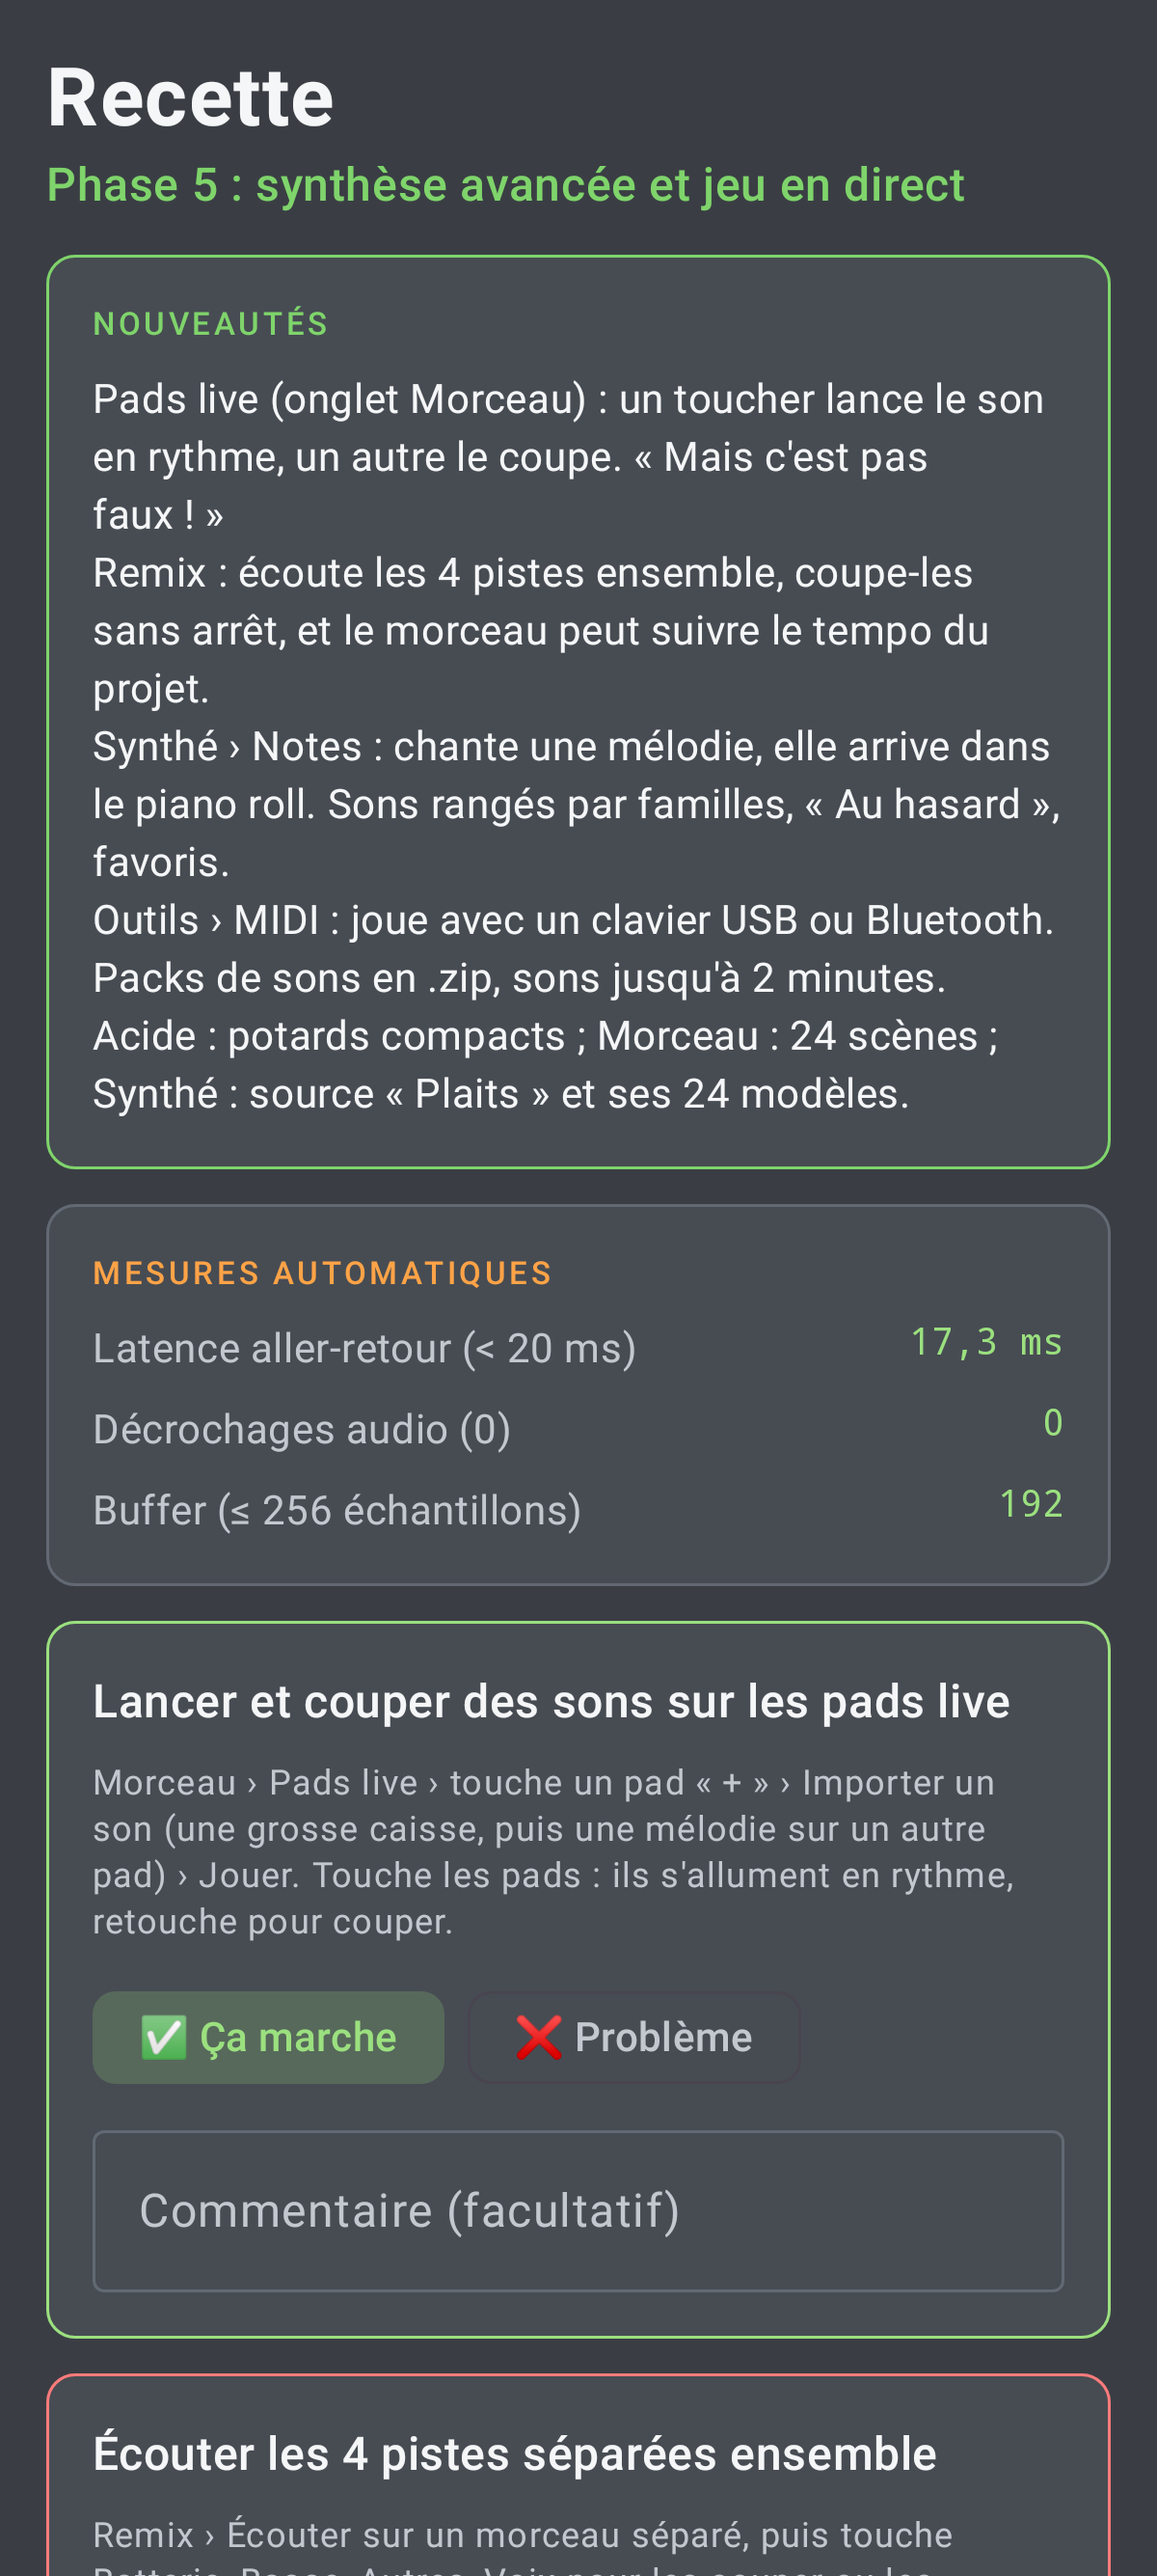
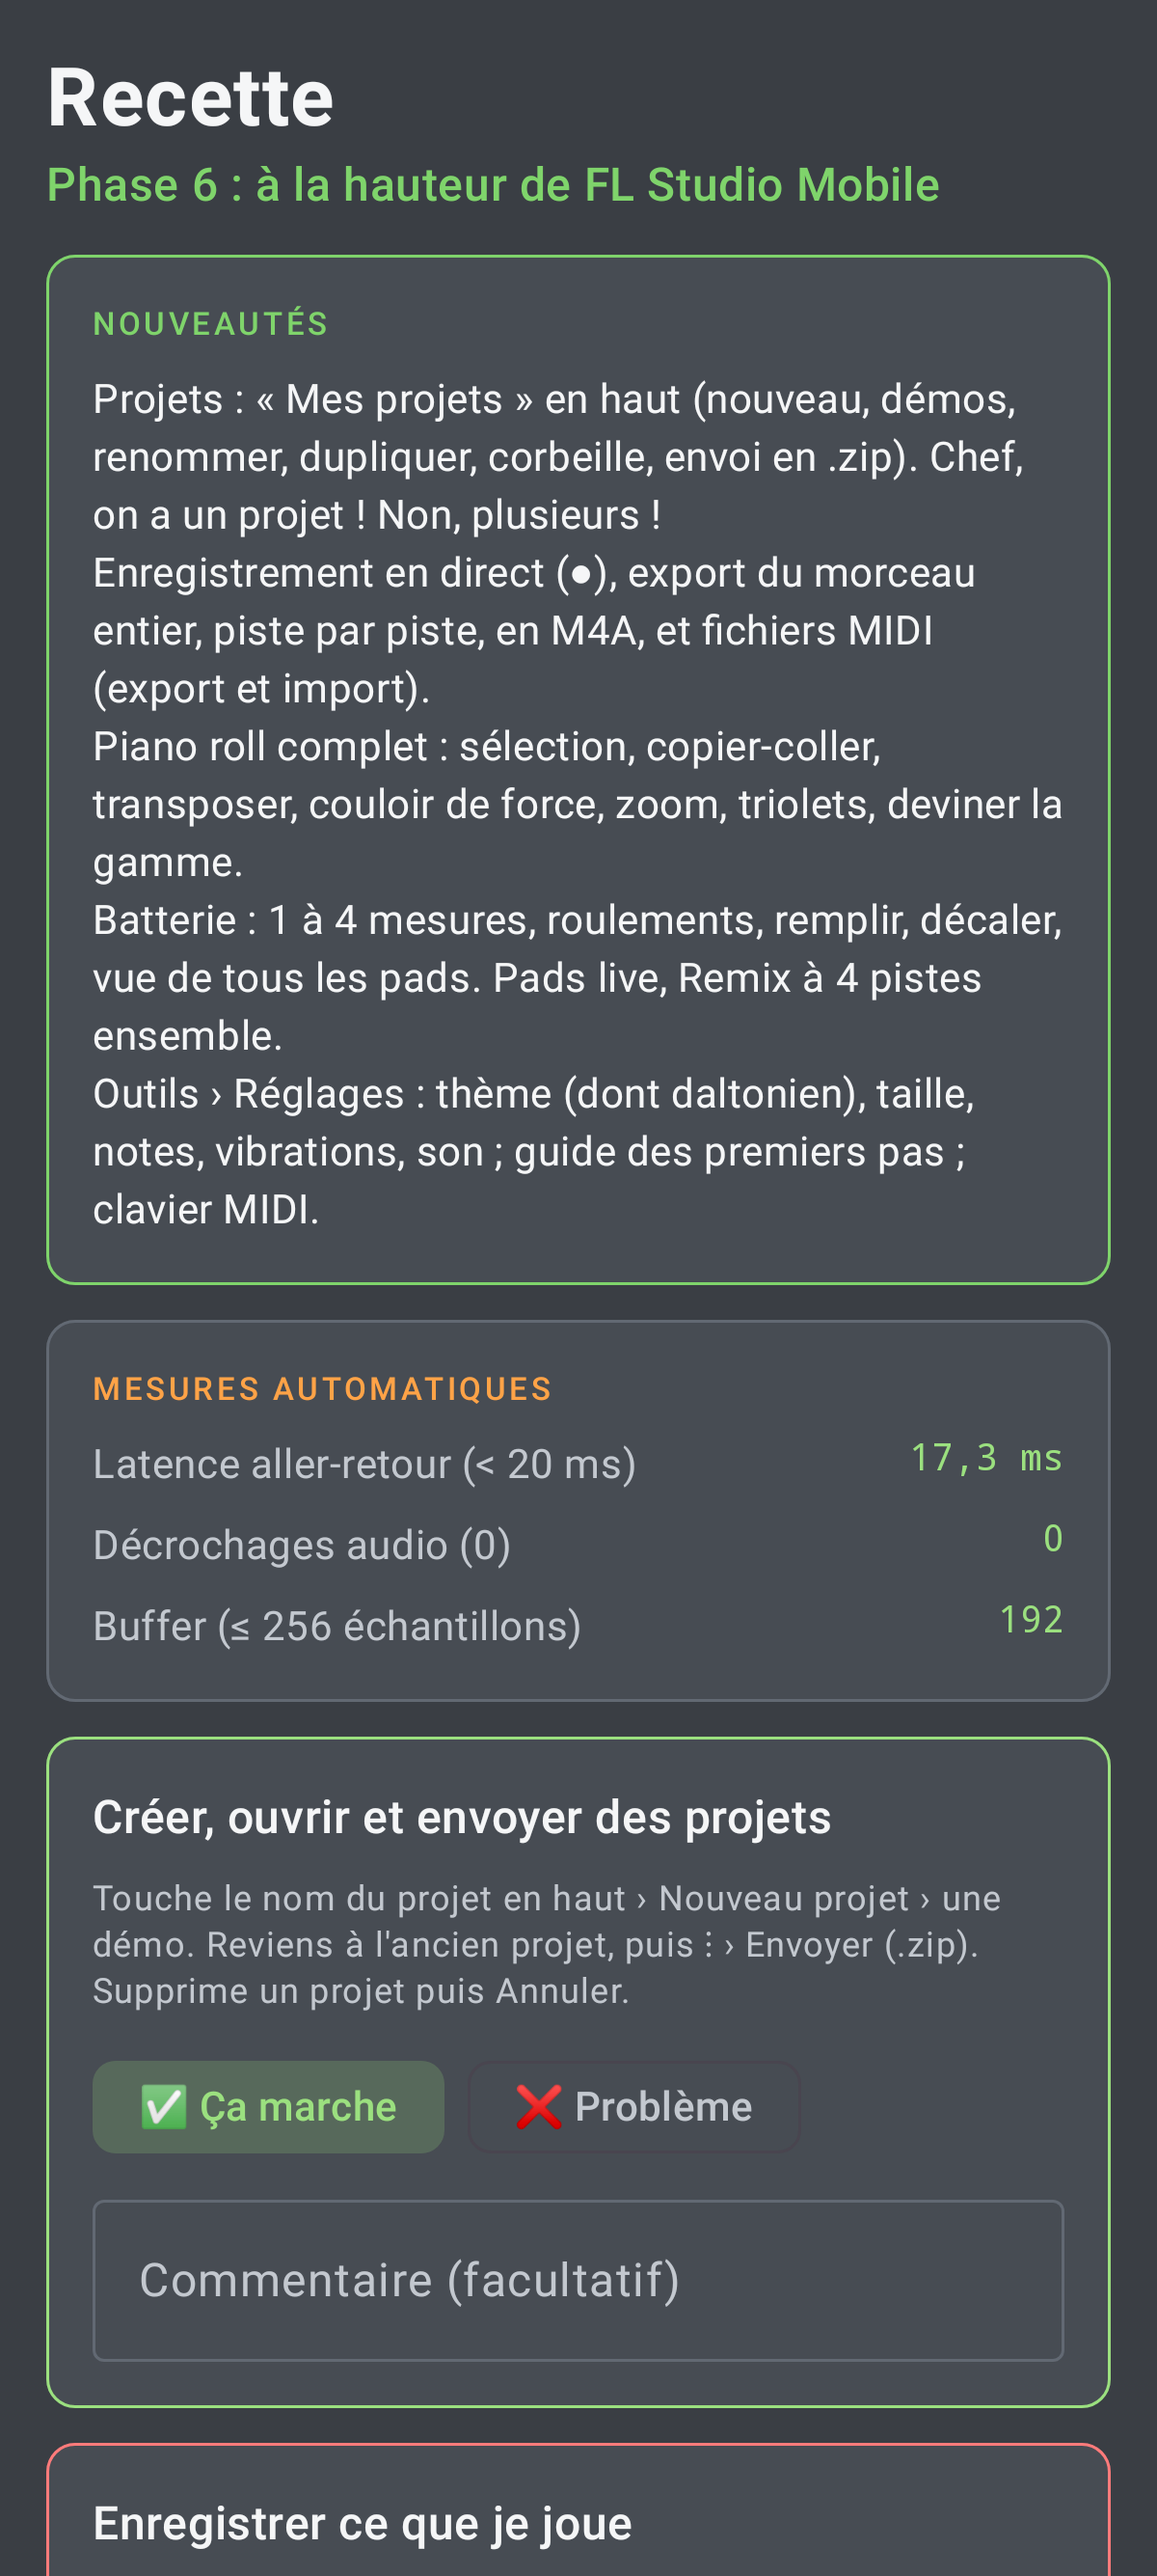
Docs: phase 6 progress, changelog, recette list; version label 0.6
Claude-Session: https://claude.ai/code/session_01NqonxZBBysqqWBbnsC2VTP

Changed region(s): [[0.0308, 0.1243, 0.9558, 1.0], [0.2467, 0.0622, 0.8325, 0.0933], [0.7708, 0.4974, 0.925, 0.5285]]

diff --git a/docs/ROADMAP.md b/docs/ROADMAP.md
@@ -67,7 +67,7 @@ Feu vert de Benjamin (D4 = A) : fusion de la pull request en fin de phase.
 - [x] 5.4 Basic Pitch (audio vers MIDI)
 
 ## Phase 6 : complétude, à hauteur de FL Studio Mobile (voir `COMPARAISON.md`)
-- [~] 6.1 Projets et exports : plusieurs projets (fait), enregistrement en direct (fait), boucle de batterie 1-4 mesures (fait) ; export du morceau entier, des pistes séparées, M4A et FLAC, normalisation ; fichiers MIDI (export, import) ; projet complet en .zip (export, import)
+- [x] 6.1 Projets et exports : plusieurs projets (fait), enregistrement en direct (fait), boucle de batterie 1-4 mesures (fait) ; export du morceau entier, des pistes séparées, M4A et FLAC, normalisation ; fichiers MIDI (export, import) ; projet complet en .zip (export, import)
 - [x] 6.2 Réglages, aide, démos : écran Réglages (thème dont daltonien, taille de l'interface, notation, Do central, vibrations, métronome, mode audio) ; premier pas guidé et astuces ; projets de démonstration et modèles
 - [x] 6.3 Piano roll complet : sélection, copier/coller, dupliquer, transposer, couloir de vélocité, zoom, grille (triolets, 1/32), legato, humaniser, deviner la gamme
 - [x] 6.4 Batterie complète (pan et envois par pad : avec les pistes, 7.1) : grille de tous les pads, pan/hauteur/roulement par pas, remplir tous les N pas, décaler, faire tourner ; pan et envois par pad

diff --git a/docs/PROGRESS.md b/docs/PROGRESS.md
@@ -79,6 +79,12 @@
   - 5.4 audio vers notes (Basic Pitch, Spotify) : chanter ou jouer une mélodie, elle arrive dans le piano roll ; test Linux (La4, Do5, accord Mi-Sol retrouvés) ;
   - restes traités : sons des pads jusqu'à 2 min (coupés au-delà), packs .zip sur les pads, Remix qui suit le tempo du projet (copie étirée en arrière-plan).
 
+- Phase 6 « complétude » (même PR #16, voir COMPARAISON.md) :
+  - 6.1 plusieurs projets (Mes projets, corbeille, .zip), enregistrement en direct (●), export morceau / pistes / M4A, fichiers MIDI ;
+  - 6.2 Réglages (thème dont daltonien, taille, notes, vibrations, écran allumé, métronome, décompte, mode du son), guide des premiers pas, 3 démos ;
+  - 6.3 piano roll complet (sélection, outils, couloir de force, zoom, grilles, deviner la gamme) ;
+  - 6.4 batterie complète (1 à 4 mesures, roulements, remplir, décaler, vue de tous les pads).
+
 ## Prochaine étape exacte
-1. Revue de fin de phase 5 (en cours), corrections, CI verte, fusion de la PR #16. Puis phase 6 (voir ROADMAP).
-2. Reste noté : horloge MIDI sortante et Ableton Link (reportés).
+1. Relectures de fin de phase 5 et 6 (en cours, sous-agents), corrections, CI verte, fusion de la PR #16.
+2. Puis phase 7 : pistes d'instruments à volonté (7.1), pistes audio (7.2), ligne de temps (7.3).
